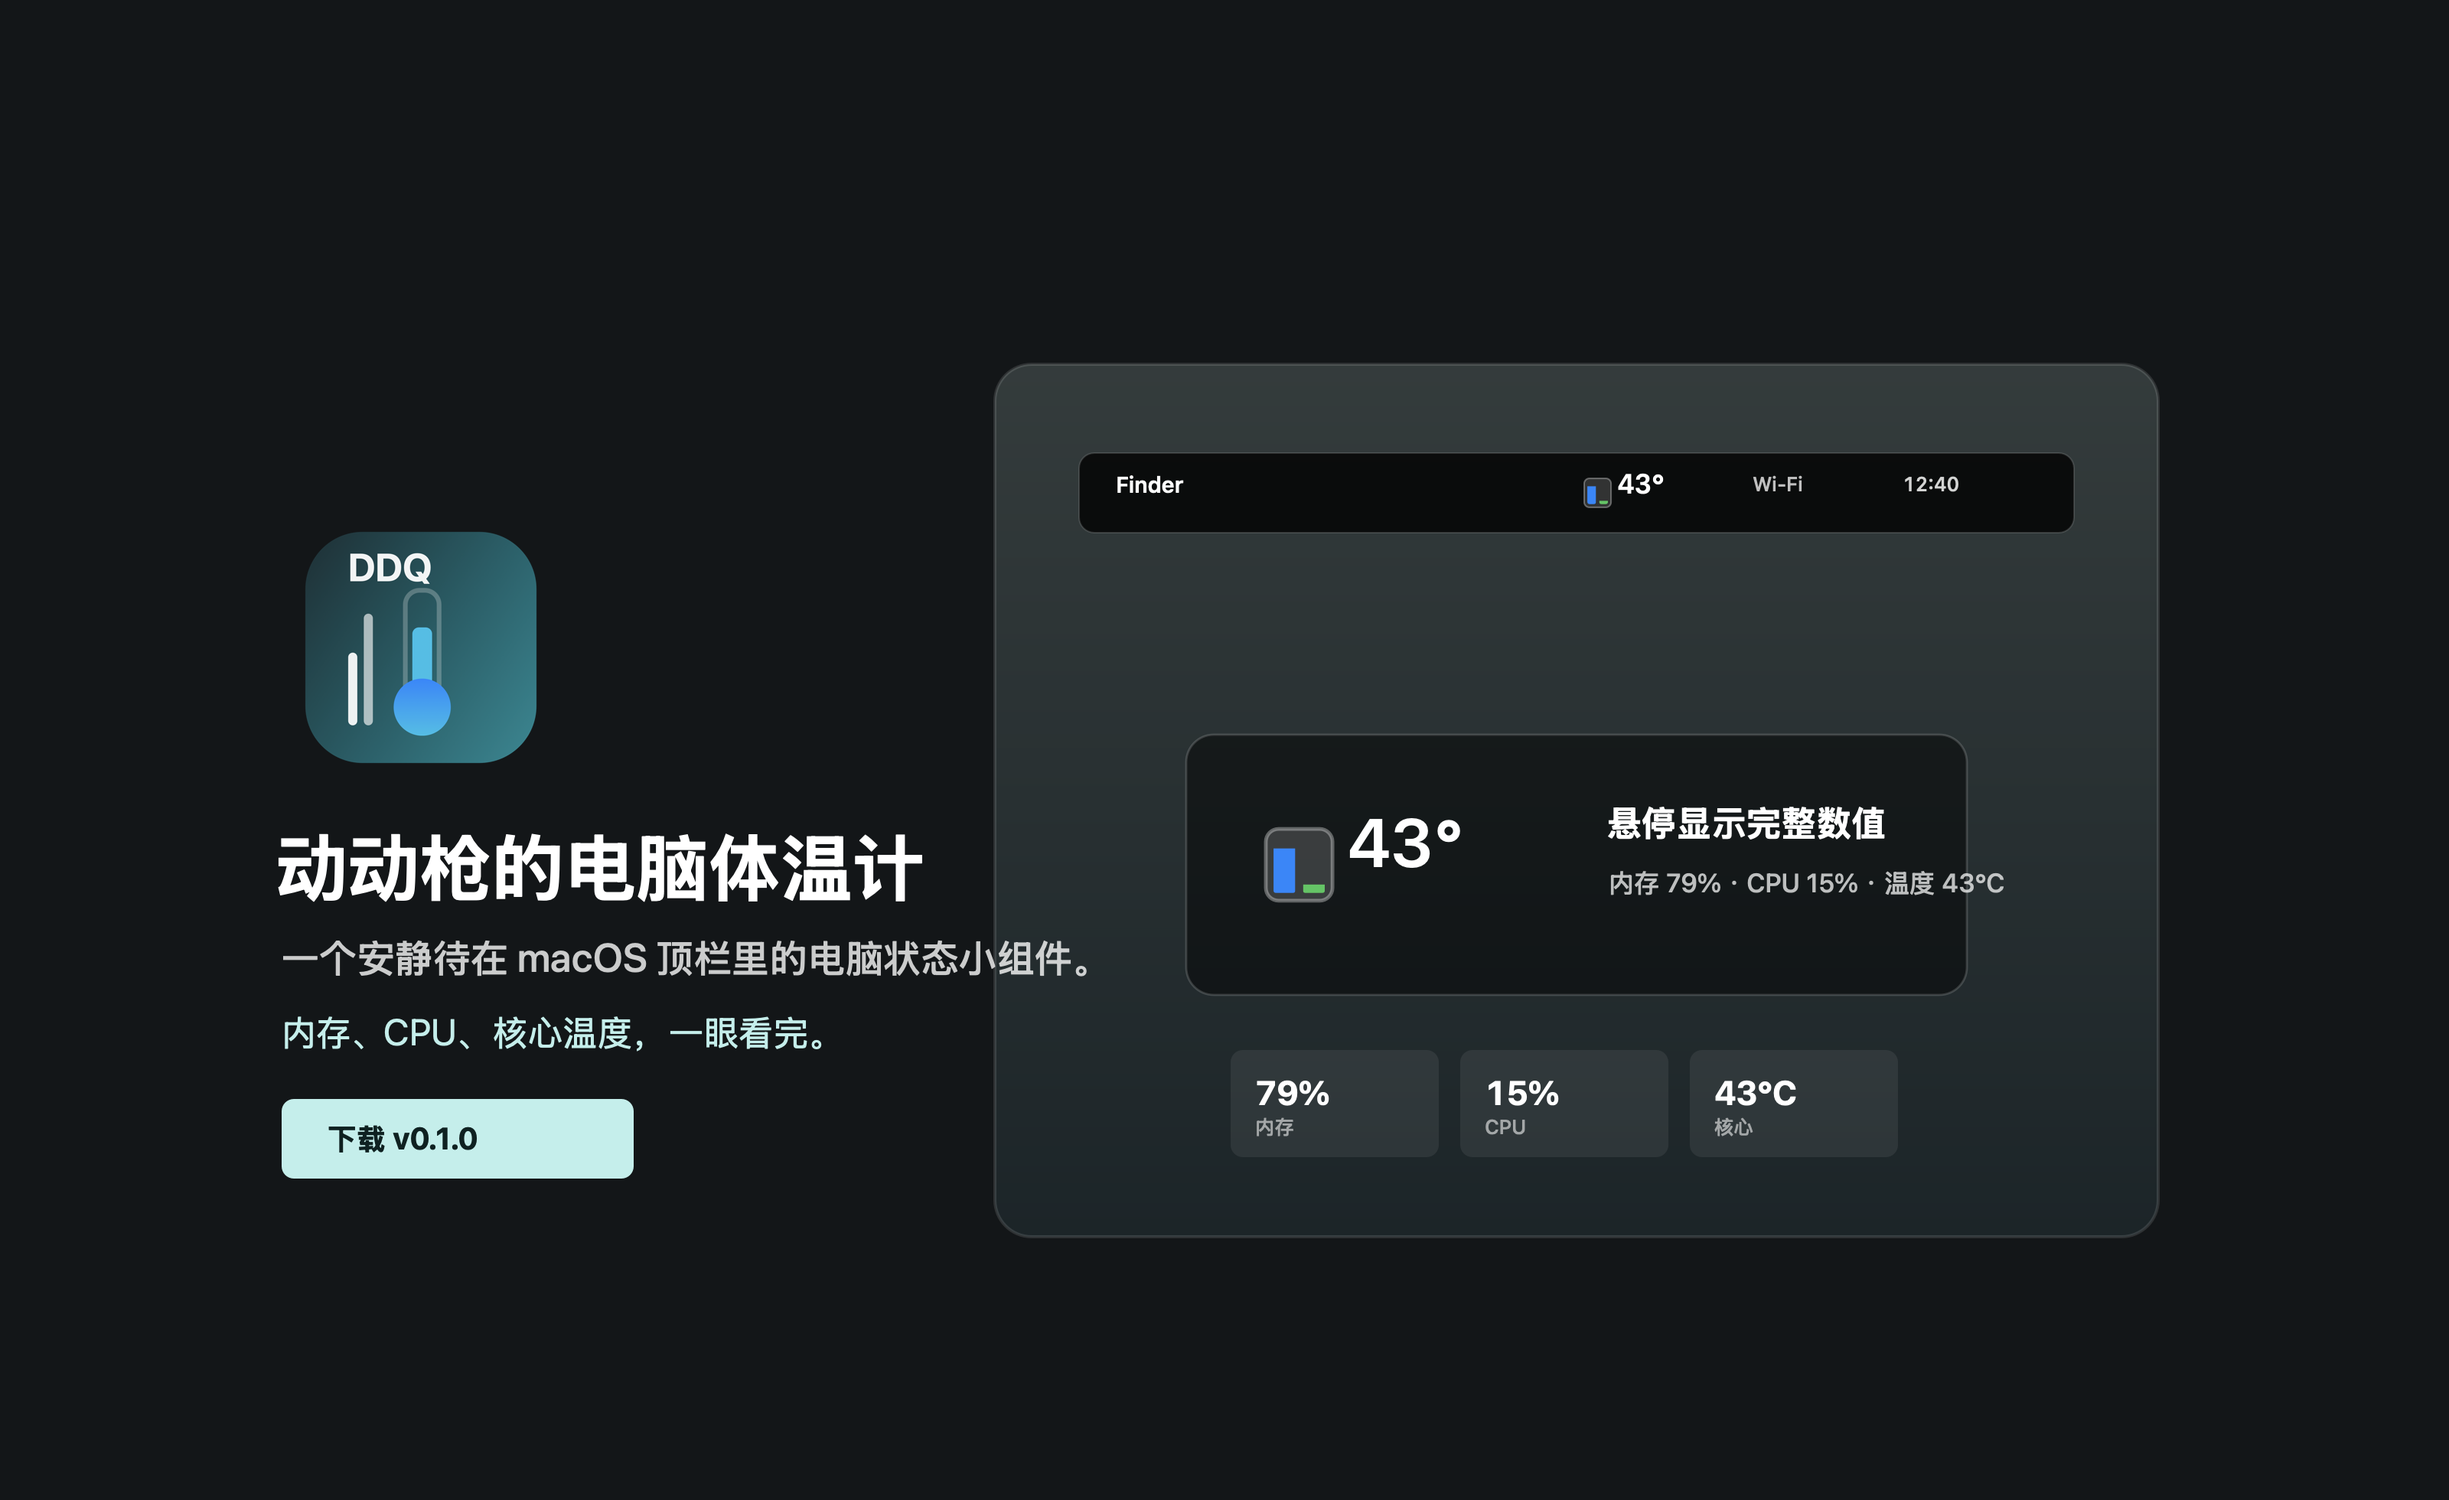
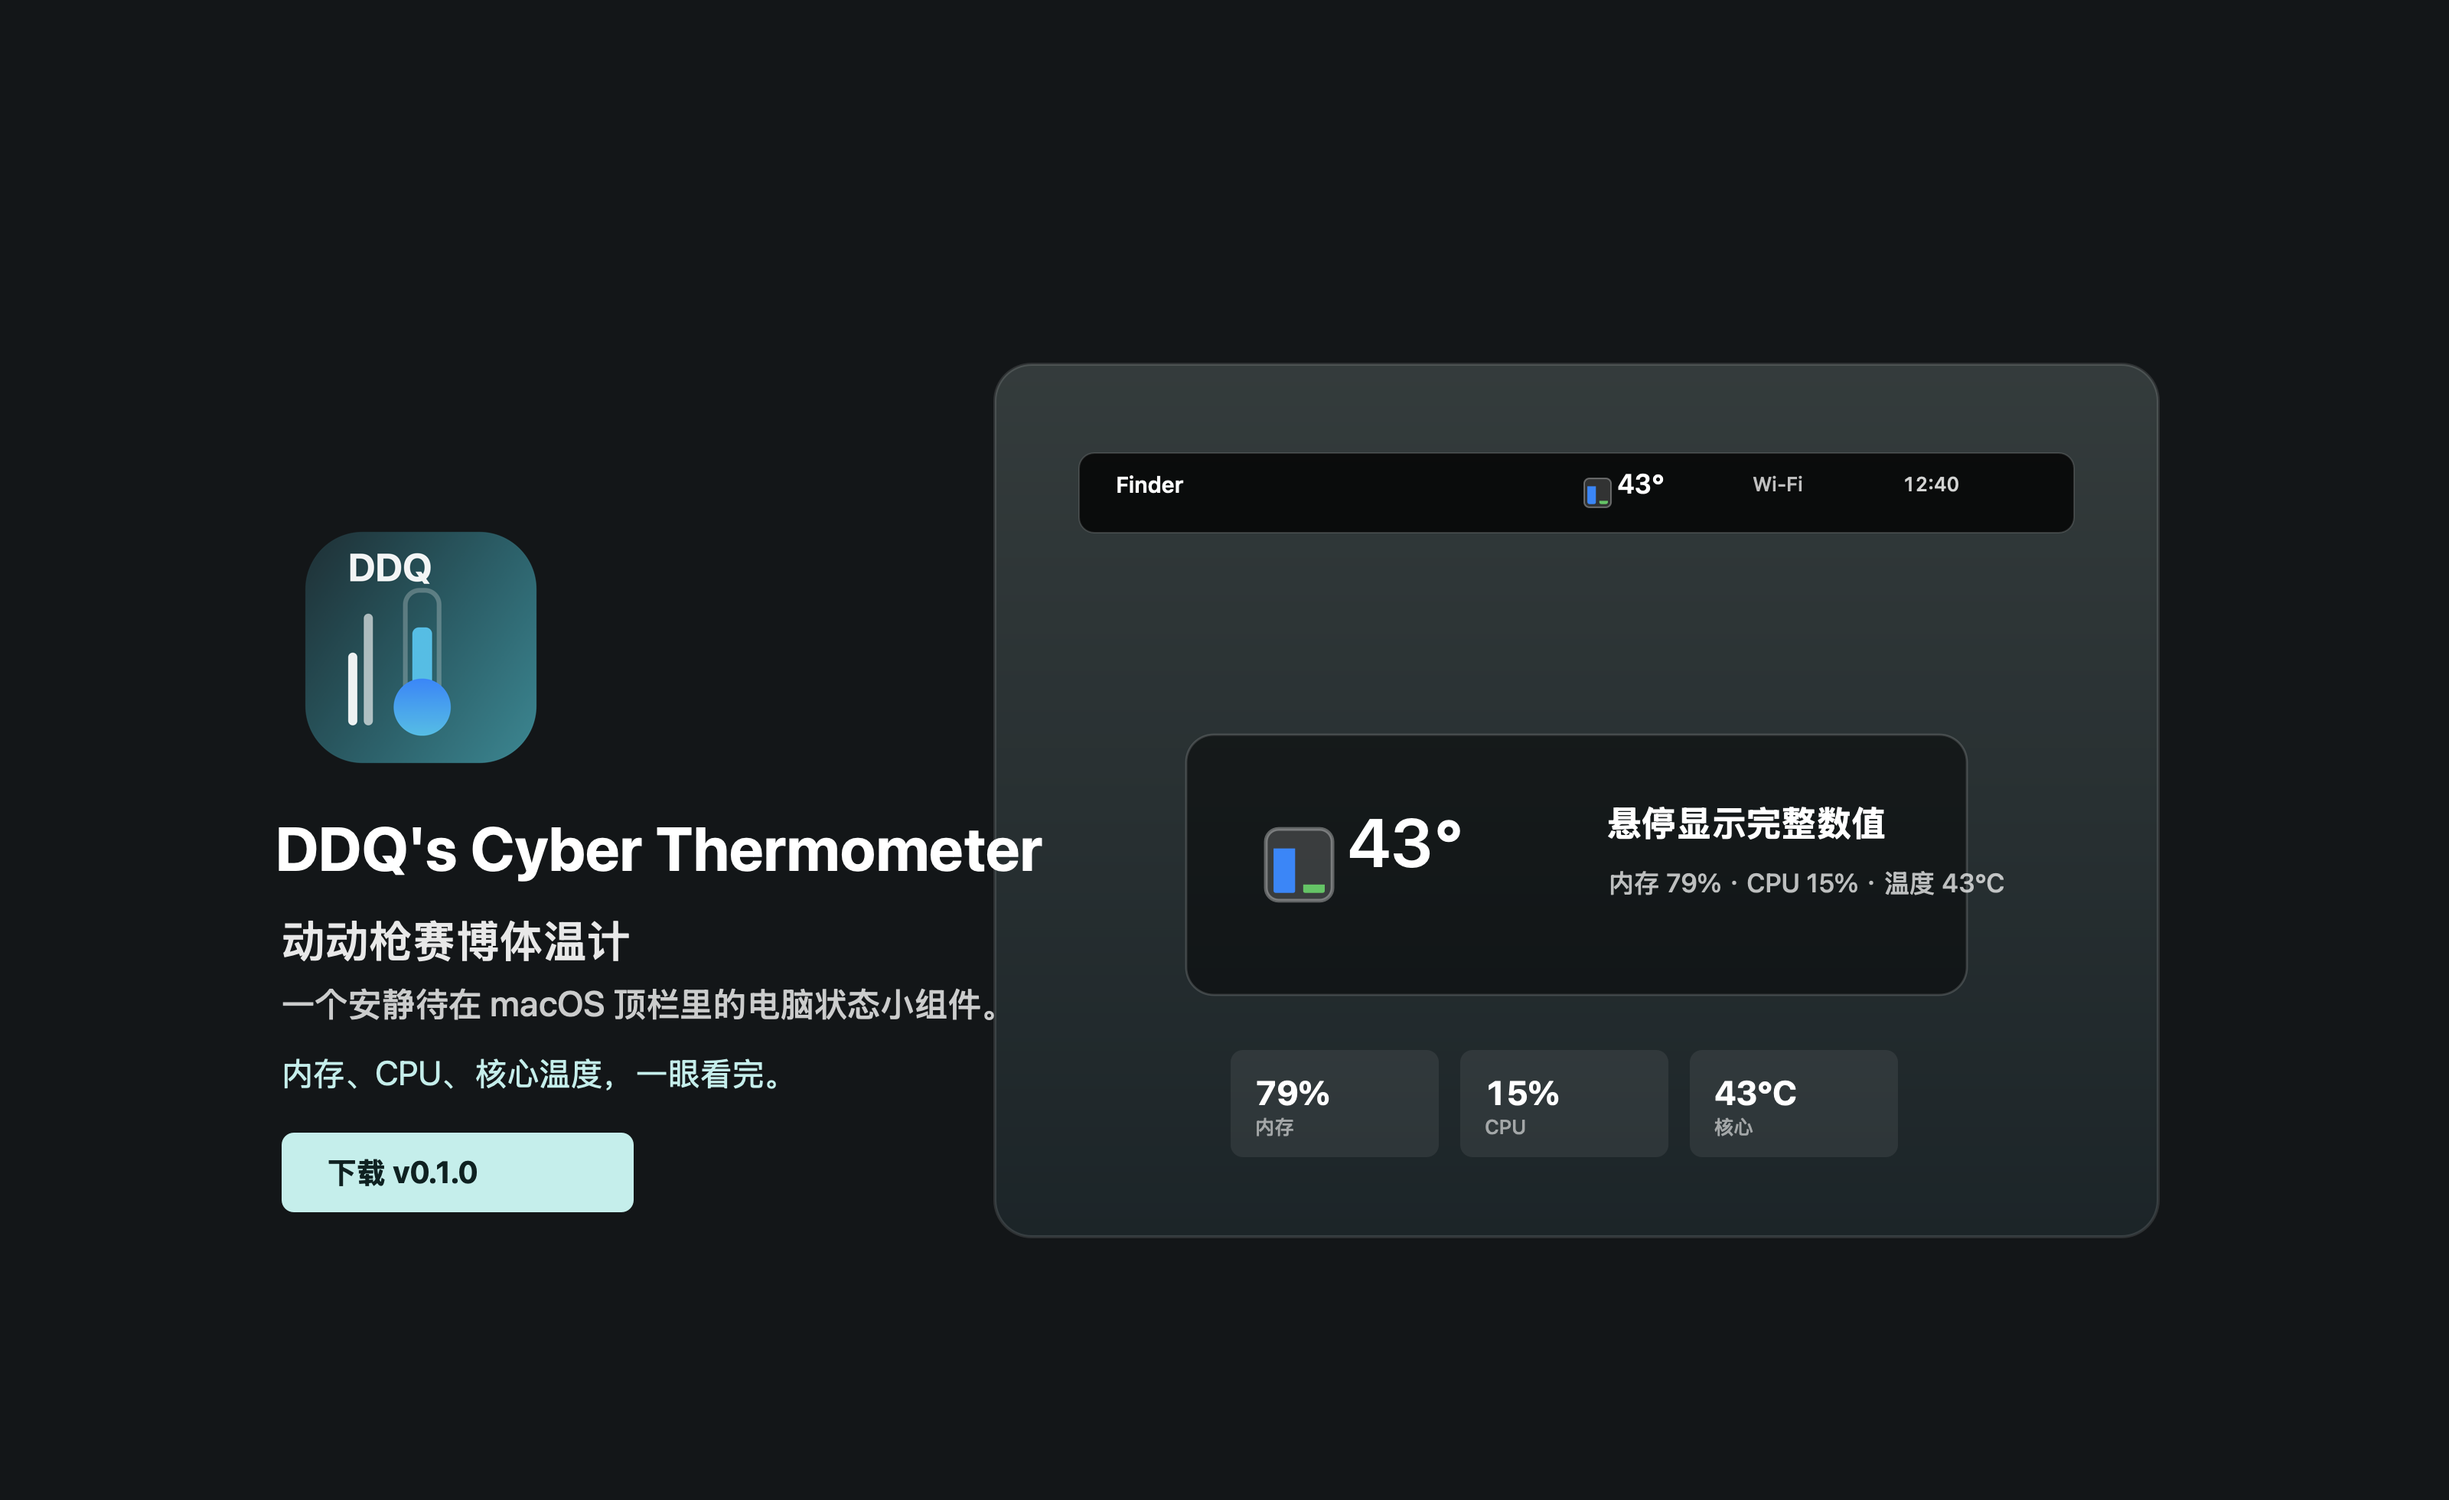
Rename product to DDQ's Cyber Thermometer

Changed region(s): [[0.0938, 0.5291, 0.4375, 0.8092]]

diff --git a/docs/index.html b/docs/index.html
@@ -3,9 +3,9 @@
 <head>
   <meta charset="utf-8">
   <meta name="viewport" content="width=device-width, initial-scale=1">
-  <title>动动枪的电脑体温计</title>
-  <meta name="description" content="一个安静待在 macOS 顶栏里的电脑状态小组件：内存、CPU、核心温度，一眼看完。">
-  <meta property="og:title" content="动动枪的电脑体温计">
+  <title>DDQ's Cyber Thermometer</title>
+  <meta name="description" content="动动枪赛博体温计，一个安静待在 macOS 顶栏里的电脑状态小组件：内存、CPU、核心温度，一眼看完。">
+  <meta property="og:title" content="DDQ's Cyber Thermometer">
   <meta property="og:description" content="内存、CPU、核心温度，一眼看完。">
   <meta property="og:image" content="assets/hero-preview.png">
   <link rel="icon" href="assets/app-icon.png">
@@ -344,7 +344,7 @@
   <header class="topbar">
     <a class="brand" data-source-link href="#" aria-label="打开源码仓库">
       <img src="assets/app-icon.png" alt="">
-      <span>动动枪的电脑体温计</span>
+      <span>DDQ's Cyber Thermometer</span>
     </a>
     <nav class="nav" aria-label="页面导航">
       <a href="#features">特性</a>
@@ -357,8 +357,8 @@
     <section class="hero">
       <div class="hero-copy">
         <p class="eyebrow">macOS menu bar thermometer</p>
-        <h1>动动枪的电脑体温计</h1>
-        <p class="lead">一个安静待在 macOS 顶栏里的电脑状态小组件。内存、CPU、核心温度，一眼看完。</p>
+        <h1>DDQ's Cyber Thermometer</h1>
+        <p class="lead">动动枪赛博体温计，一个安静待在 macOS 顶栏里的电脑状态小组件。内存、CPU、核心温度，一眼看完。</p>
         <div class="actions">
           <a class="button primary" data-release-link href="#">下载 v0.1.0</a>
           <a class="button secondary" data-source-link href="#">查看源码</a>
@@ -404,7 +404,7 @@
         </div>
         <div>
           <ol class="steps">
-            <li data-step="1"><strong>下载</strong>获取 `动动枪的电脑体温计-0.1.0.dmg`。</li>
+            <li data-step="1"><strong>下载</strong>获取 `DDQs-Cyber-Thermometer-0.1.0.dmg`。</li>
             <li data-step="2"><strong>安装</strong>打开 DMG，把 App 拖到 Applications。</li>
             <li data-step="3"><strong>运行</strong>打开后它会出现在顶栏，不显示 Dock 图标。</li>
           </ol>
@@ -423,7 +423,7 @@
 
   <script>
     const fallbackOwner = "YOUR_GITHUB_NAME";
-    const fallbackRepo = "dongdongqiang-computer-thermometer";
+    const fallbackRepo = "ddq-cyber-thermometer";
     const pathParts = window.location.pathname.split("/").filter(Boolean);
     const isGitHubPages = window.location.hostname.endsWith(".github.io");
     const owner = isGitHubPages ? window.location.hostname.split(".")[0] : fallbackOwner;

diff --git a/Scripts/generate-marketing-assets.swift b/Scripts/generate-marketing-assets.swift
@@ -46,25 +46,31 @@ func renderHero(size: NSSize) -> Data {
         }
 
         drawText(
-            "动动枪的电脑体温计",
-            in: NSRect(x: 180, y: 380, width: 600, height: 64),
-            font: .systemFont(ofSize: 50, weight: .bold),
+            "DDQ's Cyber Thermometer",
+            in: NSRect(x: 180, y: 392, width: 680, height: 58),
+            font: .systemFont(ofSize: 40, weight: .bold),
             color: .white
         )
         drawText(
+            "动动枪赛博体温计",
+            in: NSRect(x: 184, y: 342, width: 560, height: 42),
+            font: .systemFont(ofSize: 30, weight: .semibold),
+            color: NSColor.white.withAlphaComponent(0.9)
+        )
+        drawText(
             "一个安静待在 macOS 顶栏里的电脑状态小组件。",
-            in: NSRect(x: 184, y: 332, width: 560, height: 38),
-            font: .systemFont(ofSize: 26, weight: .medium),
+            in: NSRect(x: 184, y: 304, width: 560, height: 34),
+            font: .systemFont(ofSize: 23, weight: .medium),
             color: NSColor.white.withAlphaComponent(0.78)
         )
         drawText(
             "内存、CPU、核心温度，一眼看完。",
-            in: NSRect(x: 184, y: 286, width: 520, height: 34),
-            font: .systemFont(ofSize: 24, weight: .regular),
+            in: NSRect(x: 184, y: 260, width: 520, height: 32),
+            font: .systemFont(ofSize: 22, weight: .regular),
             color: NSColor(calibratedRed: 0.68, green: 0.93, blue: 0.9, alpha: 1)
         )
 
-        drawDownloadPill(in: NSRect(x: 184, y: 210, width: 230, height: 52))
+        drawDownloadPill(in: NSRect(x: 184, y: 188, width: 230, height: 52))
     }
 }
 

diff --git a/Sources/MacHealthGuardian/main.swift b/Sources/MacHealthGuardian/main.swift
@@ -13,7 +13,7 @@ struct MacHealthGuardianApp: App {
 
         if arguments.contains("--help") {
             print("""
-            动动枪的电脑体温计
+            DDQ's Cyber Thermometer / 动动枪赛博体温计
 
             Usage:
               MacHealthGuardian             Launch menu bar thermometer

diff --git a/README.md b/README.md
@@ -1,18 +1,20 @@
-# 动动枪的电脑体温计
+# DDQ's Cyber Thermometer
 
-一个安静待在 macOS 顶栏里的电脑状态小组件。内存、CPU、核心温度，一眼看完。
+中文名：**动动枪赛博体温计**。
 
-![动动枪的电脑体温计主视觉](docs/assets/hero-preview.png)
+一个安静待在 macOS 顶栏里的赛博体温计。内存、CPU、核心温度，一眼看完。
+
+![DDQ's Cyber Thermometer 主视觉](docs/assets/hero-preview.png)
 
 ## 下载
 
 公开版本会放在 GitHub Release：
 
-- 下载最新版：`Releases` 页面里的 `动动枪的电脑体温计-0.1.0.dmg`
+- 下载最新版：`Releases` 页面里的 `DDQs-Cyber-Thermometer-0.1.0.dmg`
 - 当前版本：`v0.1.0`
 - 许可证：MIT
 
-安装方式：打开 DMG，把 `动动枪的电脑体温计.app` 拖到 `Applications`。
+安装方式：打开 DMG，把 `动动枪赛博体温计.app` 拖到 `Applications`。
 
 > 当前安装包是本地临时签名，未做 Apple Developer ID 公证。首次打开时如遇到系统拦截，可右键 App 选择“打开”，或到“系统设置 > 隐私与安全性”里允许打开。
 
@@ -47,15 +49,15 @@ Scripts/package-dmg.sh
 生成：
 
 ```text
-dist/动动枪的电脑体温计-0.1.0.dmg
-dist/动动枪的电脑体温计-0.1.0.dmg.sha256
+dist/DDQs-Cyber-Thermometer-0.1.0.dmg
+dist/DDQs-Cyber-Thermometer-0.1.0.dmg.sha256
 ```
 
 只构建 App：
 
 ```bash
 Scripts/build-app.sh
-open "build/动动枪的电脑体温计.app"
+open "build/动动枪赛博体温计.app"
 ```
 
 终端采样：

diff --git a/RELEASE_NOTES.md b/RELEASE_NOTES.md
@@ -1,4 +1,6 @@
-# 动动枪的电脑体温计 v0.1.0
+# DDQ's Cyber Thermometer v0.1.0
+
+中文名：动动枪赛博体温计
 
 第一个公开版本。
 
@@ -12,6 +14,6 @@
 
 ## 安装
 
-下载 `动动枪的电脑体温计-0.1.0.dmg`，打开后把 App 拖到 Applications。
+下载 `DDQs-Cyber-Thermometer-0.1.0.dmg`，打开后把 `动动枪赛博体温计.app` 拖到 Applications。
 
 当前安装包为本地临时签名，未做 Apple Developer ID 公证。首次打开时如遇到系统拦截，可右键 App 选择“打开”，或在“系统设置 > 隐私与安全性”中允许打开。
